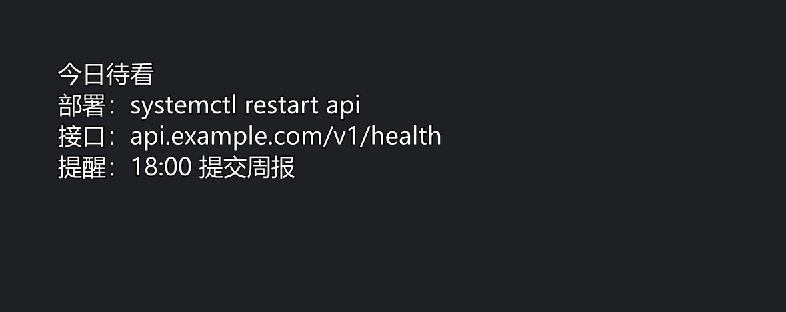
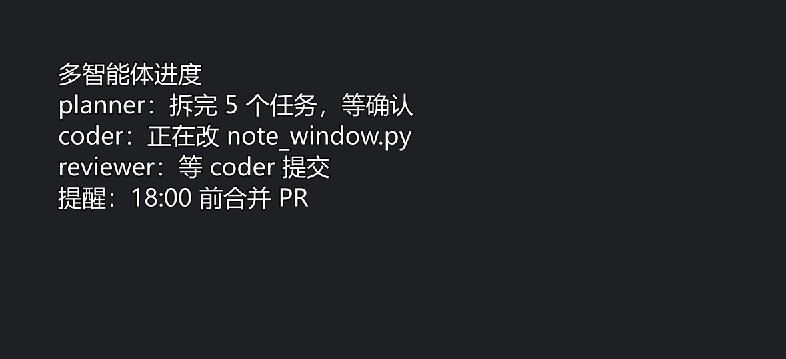
docs(悬浮便签): README 改为多智能体协作场景说明
为何：实际使用场景是多智能体并行时记不住谁负责什么、做到哪一步，原 README 的通用备忘描述没有说清
改动：开头改为场景化说明；功能首条补充 agent 分工常驻提示；演示图换成多智能体进度示例
影响：仅文档与截图，不影响程序

Changed region(s): [[0.0611, 0.1731, 0.5802, 0.6058]]

diff --git a/README.md b/README.md
@@ -1,11 +1,14 @@
 # FloatNote 悬浮便签
 
-Windows 桌面歌词式悬浮记事本：无边框、背景透明、永远置顶，把常用备忘一直浮在屏幕上。
+多智能体（或多个会话）并行干活时，经常一转头就忘：这个文件是谁改的？刚才那个 agent 负责哪一步？下一步该谁接手？
+
+FloatNote 是一个常驻桌面的透明悬浮记事本。像桌面歌词一样浮在所有窗口之上，把「谁在做什么、做到哪了」随手记下来，抬眼就能看到，不用切窗口翻聊天记录。
 
 ![demo](docs/demo.png)
 
 ## 功能
 
+- 常驻显示 agent 分工与进度（planner / coder / reviewer…），不用来回翻会话记录
 - 多行纯文本备忘，双击浮窗直接编辑
 - 无边框置顶窗口，背景全透明，文字带自动对比色描边
 - 左键任意位置拖动；位置、宽度、字号、颜色、透明度自动记忆
